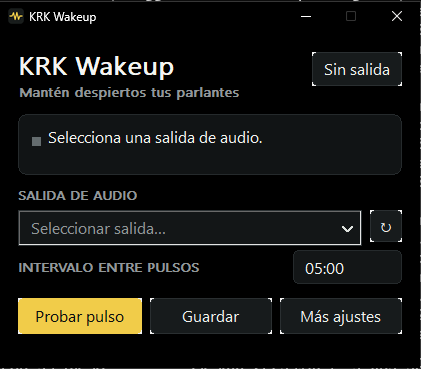
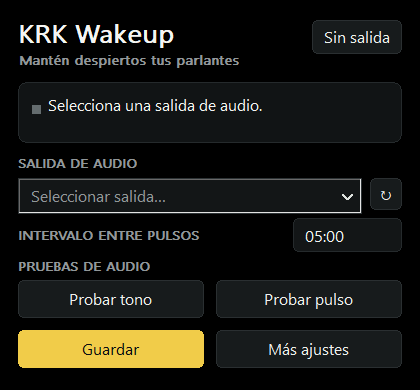
Document refreshed UI and prepare v0.1.1

diff --git a/README.md b/README.md
@@ -18,11 +18,28 @@
 
 **KRK Wakeup** es una utilidad pequeña para Windows que envía una señal de audio breve a una salida elegida por el usuario. Nació para evitar que unos KRK GoAux 3 conectados por RCA a un SMSL SU-1 entren en reposo durante pausas largas.
 
-> **Estado:** v0.1.0 publicada. La compilación y el arranque pasaron en Windows; la eficacia del pulso sigue en pruebas con los parlantes reales. En una prueba los GoAux permanecieron encendidos unos 45 minutos; con un intervalo de 20 minutos entre pulsos se apagaron. El intervalo de 15 minutos está en evaluación. Aún no hay un perfil eficaz documentado y repetido durante varias horas.
+> **Estado:** v0.1.1 publicada. La compilación y el arranque pasaron en Windows; la eficacia del pulso sigue en pruebas con los parlantes reales. En una prueba los GoAux permanecieron encendidos unos 45 minutos; con un intervalo de 20 minutos entre pulsos se apagaron. Una prueba inicial con un intervalo de 18 minutos mantuvo los parlantes encendidos; se seguirá observando durante más tiempo. Aún no hay un perfil eficaz documentado y repetido durante varias horas.
 
 <p align="center">
   <img src="assets/banner.svg" alt="KRK Wakeup: una señal breve, tus parlantes listos" width="100%">
 </p>
+
+## Interfaz
+
+<p align="center">
+  <img src="assets/ui-compact.png" alt="Ventana compacta de KRK Wakeup" width="420">
+</p>
+
+<details>
+<summary>Ver ajustes de señal</summary>
+
+<p align="center">
+  <img src="assets/ui-expanded.png" alt="Ventana ampliada con ajustes de señal" width="420">
+</p>
+
+</details>
+
+Las capturas muestran la interfaz real en Windows sin una salida de audio seleccionada. La nitidez en escala 4K depende del escalado DPI de Windows; todavía falta revisarla en un monitor 4K físico.
 
 ## Por qué existe
 
@@ -32,7 +49,7 @@ La idea es sencilla: mientras la utilidad esté activa, genera un pulso discreto
 
 ## Qué ofrece
 
-- Icono junto al reloj de Windows y una ventana compacta con tema negro OLED.
+- Icono junto al reloj de Windows y una ventana compacta con tema negro OLED. Las pruebas de audio, las acciones principales y los ajustes avanzados están separados en grupos. La interfaz ajusta fuentes y controles al DPI de cada monitor para verse nítida en pantallas de alta resolución; falta validarla visualmente en un monitor 4K real.
 - Salida de audio fija: cambiar la salida predeterminada a auriculares Bluetooth no cambia el destino del pulso.
 - Prueba de tono audible de 3 segundos (440 Hz, 5 % de nivel digital), prueba del pulso configurado, pausa, intervalo configurable y cuenta regresiva del siguiente envío.
 - Ajustes ampliables de reposo estimado, duración, frecuencia y nivel digital de la señal.
@@ -43,7 +60,7 @@ El alcance inicial es **Windows 11 x64 → USB → SMSL SU-1 → RCA → KRK GoA
 
 ## Descargar y probar
 
-1. En [Releases](https://github.com/reiterstahl/krk-wakeup/releases), descarga **`krk-wakeup-v0.1.0-windows-x64.zip`** de la versión **v0.1.0** y extrae su contenido en una carpeta estable. Incluye `krk-wakeup.exe`, la licencia y la documentación. Las compilaciones de desarrollo siguen disponibles en [Windows build](https://github.com/reiterstahl/krk-wakeup/actions/workflows/windows.yml).
+1. En [Releases](https://github.com/reiterstahl/krk-wakeup/releases), descarga **`krk-wakeup-v0.1.1-windows-x64.zip`** de la versión **v0.1.1** y extrae su contenido en una carpeta estable. Incluye `krk-wakeup.exe`, la licencia y la documentación. Las compilaciones de desarrollo siguen disponibles en [Windows build](https://github.com/reiterstahl/krk-wakeup/actions/workflows/windows.yml).
 2. Si ya ejecutas una versión anterior, usa **Salir** en su icono junto al reloj antes de reemplazar el archivo `.exe`. La configuración se conserva.
 3. Abre la aplicación y selecciona la salida de reproducción que corresponde al **SMSL SU-1**. Puedes comparar su nombre con **Configuración → Sistema → Sonido** de Windows.
 4. Con un volumen cómodo en los GoAux, pulsa **Probar tono**. Reproduce 3 segundos a 440 Hz y 5 % de nivel digital solo por la salida seleccionada, incluso si la aplicación está pausada. Confirma que se oye en los GoAux y no en otro dispositivo. Después, pulsa **Probar pulso**: usa la señal automática configurada, cuyo perfil inicial es **440 Hz**, **1000 ms** y **1 %** de nivel digital. Ajusta estos valores en **Más ajustes** si la señal molesta o no evita el reposo.
@@ -53,7 +70,7 @@ Los campos de tiempo usan `mm:ss`. **Reposo estimado** sirve de referencia para 
 
 **Frecuencia** acepta de **10 a 15000 Hz**. Para ensayar una frecuencia baja, usa **Probar pulso**, que reproduce tus ajustes. **Probar tono** sigue siendo la prueba audible fija de 440 Hz. Las frecuencias bajas son experimentales: su eficacia para evitar el reposo aún debe comprobarse en los GoAux.
 
-Un intervalo de **20 minutos** no evitó el reposo en los GoAux de prueba; **15 minutos** sigue bajo prueba. Para uso provisional, el valor inicial de **5 minutos** deja más margen respecto a los 15 minutos estimados. Si se apagan incluso con un intervalo corto, usa **Probar tono** para confirmar la ruta de audio y ajusta nivel y duración de uno en uno. El umbral de detección de los GoAux no está publicado en su manual. Comprueba también que Windows y el SMSL SU-1 no estén silenciados.
+Un intervalo de **20 minutos** no evitó el reposo en los GoAux de prueba; **18 minutos** funcionó en una prueba inicial, pero requiere observación más larga. Para uso provisional, el valor inicial de **5 minutos** deja más margen respecto a los 15 minutos estimados. Si se apagan incluso con un intervalo corto, usa **Probar tono** para confirmar la ruta de audio y ajusta nivel y duración de uno en uno. El umbral de detección de los GoAux no está publicado en su manual. Comprueba también que Windows y el SMSL SU-1 no estén silenciados.
 
 **Al bloquear Windows con Win + L**, la utilidad sigue ejecutándose mientras el equipo permanezca encendido. Si Windows entra en suspensión o hibernación, los procesos de escritorio se pausan y los pulsos se reanudan al volver. [Documentación de Microsoft sobre suspensión](https://learn.microsoft.com/en-us/windows-hardware/design/device-experiences/integrating-apps-with-modern-standby).
 
@@ -69,7 +86,7 @@ La aplicación usa la [API de dispositivos de audio de Windows](https://learn.mi
 
 En esta conexión analógica Windows identifica el **SMSL SU-1**, no los parlantes conectados al otro extremo de los RCA. Puede detectar si desaparece el DAC USB, pero no si se retira solo el cable RCA o se apagan los GoAux. Tampoco puede confirmar por software que un pulso haya reiniciado el temporizador interno de los parlantes: eso se comprueba observándolos.
 
-La ventana y el icono usan Win32; el audio, WASAPI; la compilación, CMake y MSVC. El ejecutable enlaza el runtime de C++ estáticamente. La aplicación no requiere privilegios de administrador ni modifica el firmware de los parlantes.
+La ventana y el icono usan Win32, con manifiesto Per-Monitor V2 y escalado DPI de fuentes, controles y dibujo; el audio, WASAPI; la compilación, CMake y MSVC. El ejecutable enlaza el runtime de C++ estáticamente. La aplicación no requiere privilegios de administrador ni modifica el firmware de los parlantes.
 
 ## Compilar
 

diff --git a/README.en.md b/README.en.md
@@ -18,11 +18,28 @@
 
 **KRK Wakeup** is a small Windows utility that sends a short audio signal to an output you choose. It was created to prevent KRK GoAux 3 speakers connected over RCA to an SMSL SU-1 from entering standby during long pauses.
 
-> **Status:** v0.1.0 is released. The Windows build and startup check passed; the pulse's effectiveness is still being tested on physical speakers. In one trial the GoAux stayed on for about 45 minutes, but they went to sleep with a 20-minute pulse interval. A 15-minute interval is being tested. No pulse profile has yet been documented and repeated over several hours.
+> **Status:** v0.1.1 is released. The Windows build and startup check passed; the pulse's effectiveness is still being tested on physical speakers. In one trial the GoAux stayed on for about 45 minutes, but they went to sleep with a 20-minute pulse interval. An initial test at an 18-minute interval kept the speakers awake; longer observation is still needed. No pulse profile has yet been documented and repeated over several hours.
 
 <p align="center">
   <img src="assets/banner.svg" alt="KRK Wakeup: a short signal to keep your speakers ready" width="100%">
 </p>
+
+## Interface
+
+<p align="center">
+  <img src="assets/ui-compact.png" alt="KRK Wakeup compact window" width="420">
+</p>
+
+<details>
+<summary>View signal settings</summary>
+
+<p align="center">
+  <img src="assets/ui-expanded.png" alt="Expanded window with signal settings" width="420">
+</p>
+
+</details>
+
+These are captures of the actual Windows interface with no audio output selected. Sharpness at 4K depends on Windows DPI scaling; a physical 4K monitor check is still pending.
 
 ## Why it exists
 
@@ -32,7 +49,7 @@ The idea is simple: while the utility is active, it sends a discreet pulse befor
 
 ## Features
 
-- A notification area icon next to the Windows clock and a compact OLED black window.
+- A notification area icon next to the Windows clock and a compact OLED black window. Audio tests, main actions, and advanced settings are grouped separately. Fonts and controls scale with each monitor’s DPI for sharp rendering on high-resolution displays; visual validation on a real 4K monitor is still pending.
 - A fixed audio output: changing the Windows default output to Bluetooth headphones does not change where the pulse goes.
 - A three-second audible test tone (440 Hz at 5% digital level), a test of the configured pulse, pause, an adjustable interval, and a countdown to the next pulse.
 - Additional settings for estimated standby time, pulse duration, frequency, and digital level.
@@ -43,7 +60,7 @@ The initial target setup is **Windows 11 x64 → USB → SMSL SU-1 → RCA → K
 
 ## Download and test
 
-1. Open [Releases](https://github.com/reiterstahl/krk-wakeup/releases), download **`krk-wakeup-v0.1.0-windows-x64.zip`** from **v0.1.0**, and extract its contents to a stable folder. It includes `krk-wakeup.exe`, the license, and documentation. Development builds remain available in [Windows build](https://github.com/reiterstahl/krk-wakeup/actions/workflows/windows.yml).
+1. Open [Releases](https://github.com/reiterstahl/krk-wakeup/releases), download **`krk-wakeup-v0.1.1-windows-x64.zip`** from **v0.1.1**, and extract its contents to a stable folder. It includes `krk-wakeup.exe`, the license, and documentation. Development builds remain available in [Windows build](https://github.com/reiterstahl/krk-wakeup/actions/workflows/windows.yml).
 2. If an older version is running, choose **Salir** (Exit) from its notification area menu before replacing the `.exe`. Your settings will remain in place.
 3. Open the app and select the playback output corresponding to the **SMSL SU-1**. You can compare its name with **Settings → System → Sound** in Windows.
 4. Set the GoAux speakers to a comfortable volume, then click **Probar tono** (Test tone). It plays for three seconds at 440 Hz and 5% digital level only through the selected output, even if the app is paused. Confirm that you hear it on the GoAux and nowhere else. Next, click **Probar pulso** (Test pulse): it uses the configured automatic signal, initially **440 Hz**, **1000 ms**, and **1%** digital level. Change these values under **Más ajustes** (More settings) if the signal is annoying or fails to prevent standby.
@@ -53,7 +70,7 @@ Time fields use `mm:ss`. **Reposo estimado** (Estimated standby) is a calibratio
 
 **Frecuencia** (Frequency) accepts **10 to 15000 Hz**. To try a low frequency, use **Probar pulso** (Test pulse), which plays your configured settings. **Probar tono** (Test tone) remains the fixed audible test at 440 Hz. Low frequencies are experimental: their effectiveness at preventing standby still needs to be checked on the GoAux.
 
-A **20-minute** interval did not prevent standby in the tested GoAux; **15 minutes** is still being tested. For now, the default **5-minute** interval leaves more margin relative to the estimated 15-minute standby time. If they go to sleep even with a short interval, use **Probar tono** (Test tone) to confirm the audio route, then change pulse level and duration one at a time. KRK does not publish the GoAux detection threshold in its manual. Also check that neither Windows nor the SMSL SU-1 is muted.
+A **20-minute** interval did not prevent standby in the tested GoAux; **18 minutes** worked in an initial trial, but needs longer observation. For now, the default **5-minute** interval leaves more margin relative to the estimated 15-minute standby time. If they go to sleep even with a short interval, use **Probar tono** (Test tone) to confirm the audio route, then change pulse level and duration one at a time. KRK does not publish the GoAux detection threshold in its manual. Also check that neither Windows nor the SMSL SU-1 is muted.
 
 **Locking Windows with Win + L** leaves the utility running while the computer remains awake. If Windows enters sleep or hibernation, desktop processes pause and pulses resume when the computer wakes. See [Microsoft's sleep documentation](https://learn.microsoft.com/en-us/windows-hardware/design/device-experiences/integrating-apps-with-modern-standby).
 
@@ -69,7 +86,7 @@ The app uses the [Windows audio device API](https://learn.microsoft.com/en-us/wi
 
 With this analog connection, Windows identifies the **SMSL SU-1**, not the speakers attached to its RCA outputs. The app can detect when the USB DAC disappears, but it cannot detect an unplugged RCA cable or powered-off GoAux speakers. Nor can software confirm that a pulse reset the speakers' internal standby timer: that must be checked on the speakers themselves.
 
-The window and notification area icon use Win32; audio uses WASAPI; builds use CMake and MSVC. The executable links the C++ runtime statically. The app needs no administrator privileges and does not modify the speakers' firmware.
+The window and notification area icon use Win32, with a Per-Monitor V2 manifest and DPI scaling for fonts, controls, and drawing; audio uses WASAPI; builds use CMake and MSVC. The executable links the C++ runtime statically. The app needs no administrator privileges and does not modify the speakers' firmware.
 
 ## Build
 

diff --git a/docs/PLAN.md b/docs/PLAN.md
@@ -1,6 +1,6 @@
 # Plan inicial de KRK Wakeup
 
-Fecha de investigación: 2026-10-06. Estado: v0.1.0 publicada; una prueba mantuvo los GoAux 3 encendidos unos 45 minutos, mientras que un intervalo de 20 minutos permitió que entraran en reposo. El intervalo de 15 minutos sigue bajo prueba.
+Fecha de investigación: 2026-10-06. Estado: v0.1.1 preparada; una prueba mantuvo los GoAux 3 encendidos unos 45 minutos, mientras que un intervalo de 20 minutos permitió que entraran en reposo. Una prueba inicial con 18 minutos funcionó; falta observación prolongada.
 
 ## Objetivo
 
